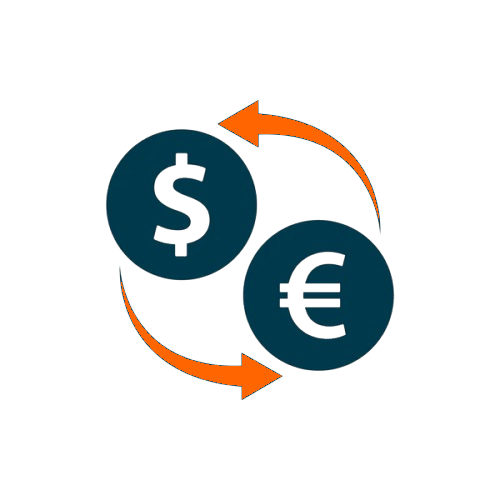
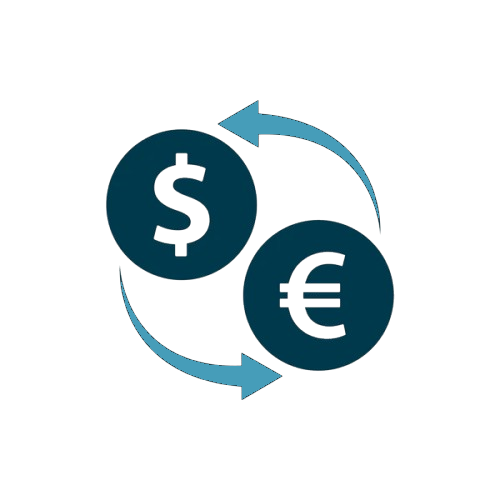
Changed color theme and worked on total and rate dynamic changes

Changed region(s): [[0.24, 0.57, 0.57, 0.81], [0.42, 0.21, 0.75, 0.42]]

diff --git a/lib/currency_converter_page.dart b/lib/currency_converter_page.dart
@@ -1,6 +1,6 @@
+import 'package:flutter/material.dart';
 import 'dart:convert';
 import 'package:http/http.dart' as http;
-import 'package:flutter/material.dart';
 import 'package:flutter_application_1/widgets/dropdown.dart';
 import 'package:flutter_application_1/widgets/amount_input.dart';
 import 'package:flutter_application_1/widgets/total_box.dart';
@@ -15,7 +15,7 @@ class CurrencyConverterPage extends StatefulWidget {
  
 class _CurrencyConverterPageState extends State<CurrencyConverterPage> {
   String fromCurrency = "USD"; //default currency
-  String toCurrency = "EUR"; //default currency
+  String toCurrency = "USD"; //default currency
   double amount = 0.0; //amount entered by the user
   double rate = 0.0; //rate of the currency entered by the user
   double total = 0.0; //total amount of the currency entered by the user
@@ -23,11 +23,11 @@ class _CurrencyConverterPageState extends State<CurrencyConverterPage> {
   TextEditingController amountController = TextEditingController(text: "0"); 
   // amountController is an instance of class TextEditingController that is used to control and retrieve the input from a TextField
   // It takes input from user and saves it in amount but has 0 as its default value
-  List<String> currencies = [];
+  List<String> currencies = []; //stores the list of currencies fetched from the API
 
   @override
-  void initState() {
-    super.initState();
+  void initState() { //fetches the list of currencies from the API when the page is initialized
+    super.initState(); 
     _getCurrencies();
   }
 
@@ -36,7 +36,7 @@ class _CurrencyConverterPageState extends State<CurrencyConverterPage> {
 
   var data = json.decode(response.body);
   setState(() {
-    rate = data['rates'][toCurrency];
+    rate = data['rates'][toCurrency]; //updates rate based on the toCurrency
   });
   }
 
@@ -46,28 +46,28 @@ class _CurrencyConverterPageState extends State<CurrencyConverterPage> {
       fromCurrency = toCurrency; //temp fromCurrency to store toCurrency string
       toCurrency = temp; //toCurrency string to store temp string
       _getRate(); //getRate function to get the rate of the current currency in fromCurrency  
-        total = amount * rate;
       });
   }
 
   Future<void> _getRate() async {
-  try {
-    final response = await http.get(
+  try { //handle errors if API request fails
+    final response = await http.get( //waits for API response before proceeding
       Uri.parse('https://api.exchangerate-api.com/v4/latest/$fromCurrency'),
     );
 
-    if (response.statusCode == 200) {
-      var data = json.decode(response.body);
+    if (response.statusCode == 200) { // if API request is successful
+      var data = json.decode(response.body); //coverts JSON response to Dart Map
 
-      setState(() {
-        currencies = (data['rates'] as Map<String, dynamic>).keys.toList();
-        rate = data['rates'][toCurrency] ?? 0.0; // Default to 0 if null
+      setState(() { //updates the UI with the new data
+        currencies = (data['rates'] as Map<String, dynamic>).keys.toList(); //extraxts currency codes from the data
+        rate = data['rates'][toCurrency] ?? 0.0; //fetches rate of toCurrency and Default to 0 if null
+        total = amount * rate; //updates total amount based on the new rate
       });
     } else {
-      throw Exception('Failed to load exchange rates. Status Code: ${response.statusCode}');
+      throw Exception('Failed to load exchange rates. Status Code: ${response.statusCode}'); //if status code is not 200 it throws exception
     }
-  } catch (error) {
-    debugPrint('Error fetching exchange rate: $error');
+  } catch (error) { //catches error if API request fails
+    debugPrint('Error fetching exchange rate: $error'); //prints error message to the console
   }
 }
 
@@ -75,7 +75,7 @@ class _CurrencyConverterPageState extends State<CurrencyConverterPage> {
   @override
   Widget build(BuildContext context) {
     return Scaffold(
-      backgroundColor: const Color.fromARGB(255, 191, 208, 221),
+      backgroundColor: const Color.fromARGB(255, 143, 190, 224),
       appBar: AppBar(
         backgroundColor: const Color.fromARGB(255, 70, 157, 185), //appbar background color transparent 
         elevation: 0,
@@ -91,7 +91,7 @@ class _CurrencyConverterPageState extends State<CurrencyConverterPage> {
             children: [
               Padding(padding: EdgeInsets.all(20),
               child: Image.asset(
-                'images/currency_converter2.png',
+                'images/currency_converter3.png',
                 width: 300,
                 height: 250,
               ),
@@ -111,7 +111,7 @@ class _CurrencyConverterPageState extends State<CurrencyConverterPage> {
                 },
               ),
 
-              const SizedBox(height: 40), //adds vertical space between the textfield and the dropdowns
+              const SizedBox(height: 50), //adds vertical space between the textfield and the dropdowns
 
               Row(
                 mainAxisAlignment: MainAxisAlignment.center,
@@ -121,7 +121,7 @@ class _CurrencyConverterPageState extends State<CurrencyConverterPage> {
                     currencies: currencies,
                     onChanged: (newValue) {
                       setState(() {
-                        fromCurrency = newValue ?? fromCurrency;
+                        fromCurrency = newValue ?? fromCurrency; //changes  newvalue to fromCurrency and gets the rate of the current currency in fromCurrency
                         _getRate();
                       });
                     }, 
@@ -140,7 +140,7 @@ class _CurrencyConverterPageState extends State<CurrencyConverterPage> {
                     currencies: currencies,
                     onChanged: (newValue) {
                       setState(() {
-                        fromCurrency = newValue !;
+                        toCurrency = newValue ?? toCurrency; //changes  newvalue to toCurrency and gets the rate of the current currency in toCurrency
                         _getRate();
                       });
                     },  
@@ -149,16 +149,17 @@ class _CurrencyConverterPageState extends State<CurrencyConverterPage> {
                   ], //childerns for currency dropdowns                
                 ),
                 
-                const SizedBox(height: 15), //adds vertical space between the dropdowns and the text
+                const SizedBox(height: 50), //adds vertical space between the dropdowns and the text
                 
                 Text( // Displaying the rate of the currency entered by the user.
-                  "Rate : $rate",
+                  "Current Rate : $rate",
                   style: TextStyle(
-                  fontSize: 20, color: Color(0xFF00394C),
+                  fontSize: 20, 
+                  color: Colors.black,
                 ),
                 ),
                 
-                const SizedBox(height: 15),
+                const SizedBox(height: 10),
 
                 TotalBox ( // Adding TotalBox widget to display the total amount of the currency entered by the user.)
                   total: total,

diff --git a/lib/widgets/dropdown.dart b/lib/widgets/dropdown.dart
@@ -16,14 +16,16 @@ class CurrencyDropdown extends StatelessWidget { //immutable widget
 
   @override
   Widget build(BuildContext context) {
-    return Container(
+    return Padding(
+    padding: const EdgeInsets.symmetric(horizontal: 10,vertical: 5), //padding for the
+    child:Container(
       width: 100,
       decoration: BoxDecoration(
       color: const Color.fromARGB(255, 70, 157, 185),
       borderRadius: BorderRadius.circular(18),  
       ),
       child: DropdownButtonFormField<String>(
-        value: currencies.contains(value) ? value : null, // Checks and Set it as the selected value and if it is not in the list then Set value to null
+        value: value, // Checks and Set it as the selected value and if it is not in the list then Set value to null
         isExpanded: true, // Dropdown expands to fit the container
         dropdownColor:  const Color.fromARGB(255, 48, 147, 180), 
         decoration: InputDecoration(
@@ -51,6 +53,7 @@ class CurrencyDropdown extends StatelessWidget { //immutable widget
         }).toList(),
         onChanged: onChanged,
       ),
+    ),
     );
   }
 }

diff --git a/lib/widgets/amount_input.dart b/lib/widgets/amount_input.dart
@@ -39,10 +39,18 @@ class _AmountState extends State<Amount> {
   @override
   Widget build(BuildContext context) {
     return Container(
-      width: 220, // Set width of the container
+      width: MediaQuery.of(context).size.width*0.95, // Set width of the container
+      height: 60, // Set height of the container
       padding: const EdgeInsets.symmetric(horizontal: 8), // Add padding to both sides of the container
       decoration: BoxDecoration(
-        color: const Color.fromARGB(255, 40, 116, 141),
+        gradient: LinearGradient(
+          colors: [
+            const Color.fromARGB(255, 47, 94, 131),
+            const Color.fromARGB(255, 22, 103, 141)
+          ], // Gradient colors
+          begin: Alignment.topLeft, // Start from top left
+          end: Alignment.bottomRight, // End at bottom right
+        ),
         borderRadius: BorderRadius.circular(12),
       ),
       child: Row(

diff --git a/lib/widgets/total_box.dart b/lib/widgets/total_box.dart
@@ -11,13 +11,13 @@ class TotalBox extends StatelessWidget {
   @override
   Widget build(BuildContext context) {
     return Container(
-      width: 180,
-      height: 50,
+      width: MediaQuery.of(context).size.width*0.95, // Set width of the container fitting the screen width
+      height: 60,
       decoration: BoxDecoration(
         gradient: LinearGradient(
           colors: [
-            const Color.fromARGB(255, 111, 156, 190),
-            const Color.fromARGB(255, 43, 120, 156)
+            const Color.fromARGB(255, 47, 94, 131),
+            const Color.fromARGB(255, 22, 103, 141)
           ], // Gradient colors
           begin: Alignment.topLeft, // Start from top left
           end: Alignment.bottomRight, // End at bottom right

diff --git a/lib/widgets/swap_icon.dart b/lib/widgets/swap_icon.dart
@@ -33,7 +33,7 @@ class _SwapButtonState extends State<SwapButton> {
         height: 60,
         decoration: BoxDecoration(
           shape: BoxShape.circle,
-          color: const Color(0xFFFF6500),
+          color:  const Color(0xFF469DB9),
           border: Border.all(
             color: const Color(0xFF00394C), 
             width: 2,
